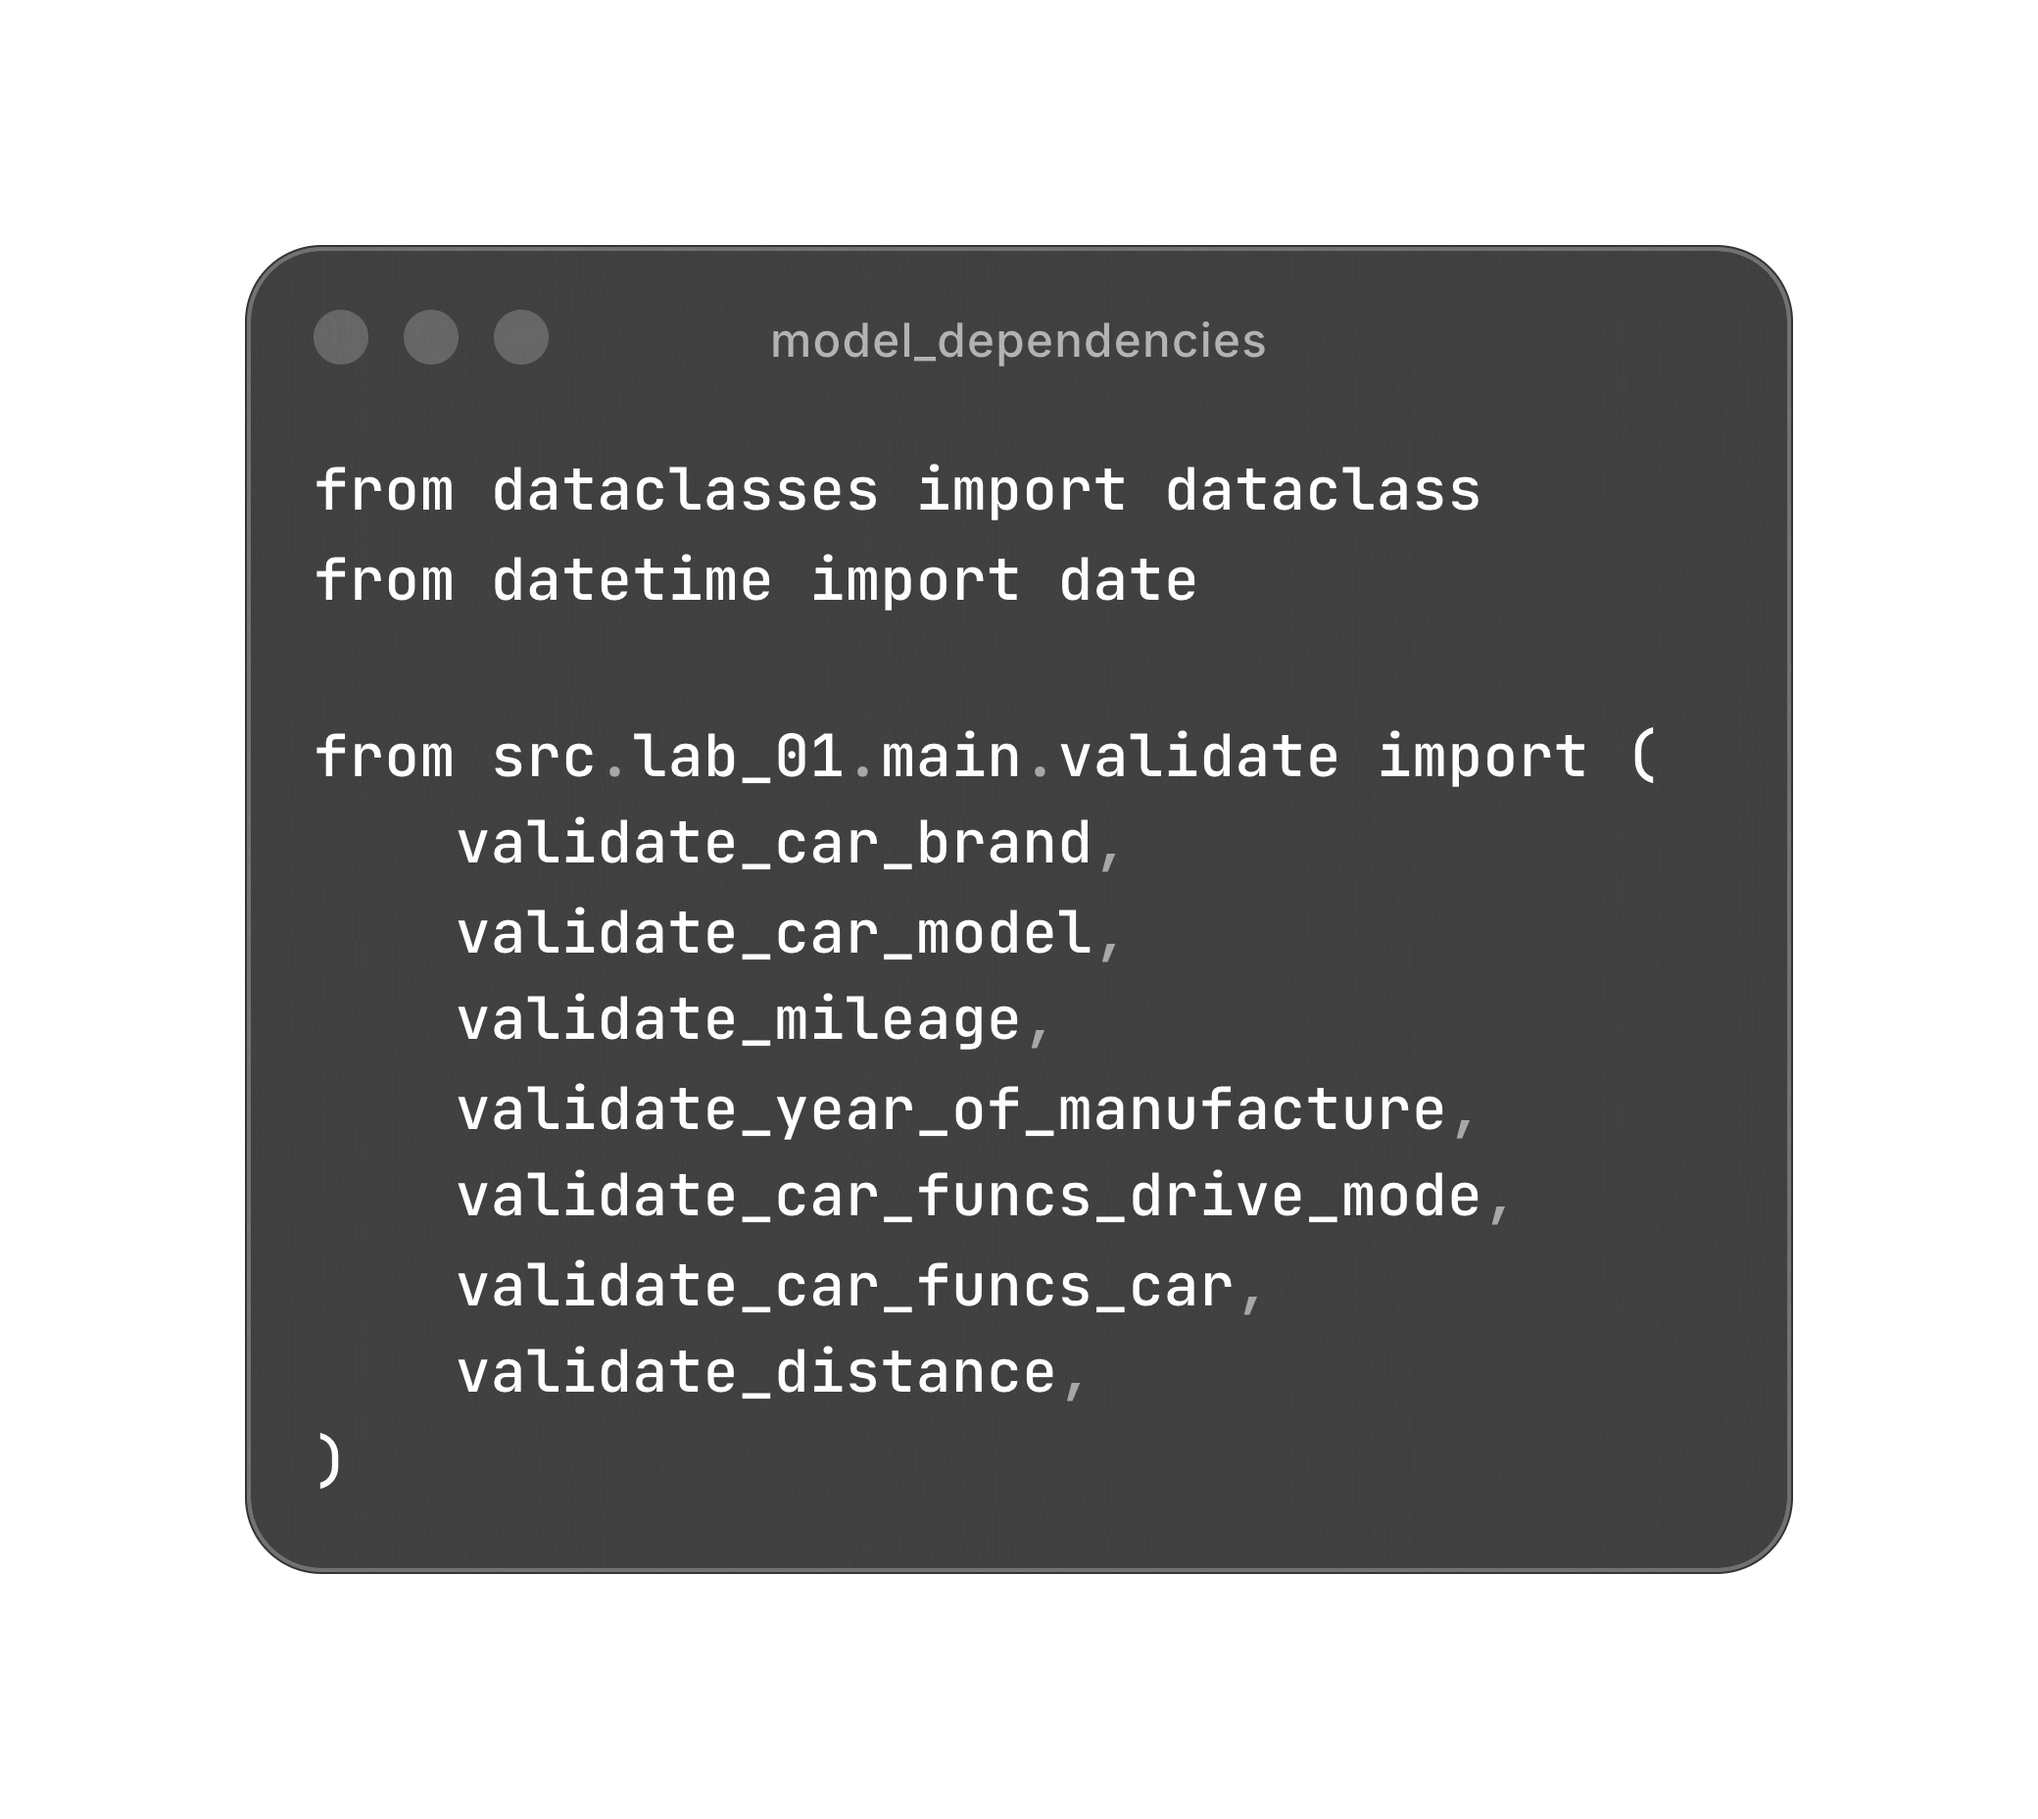
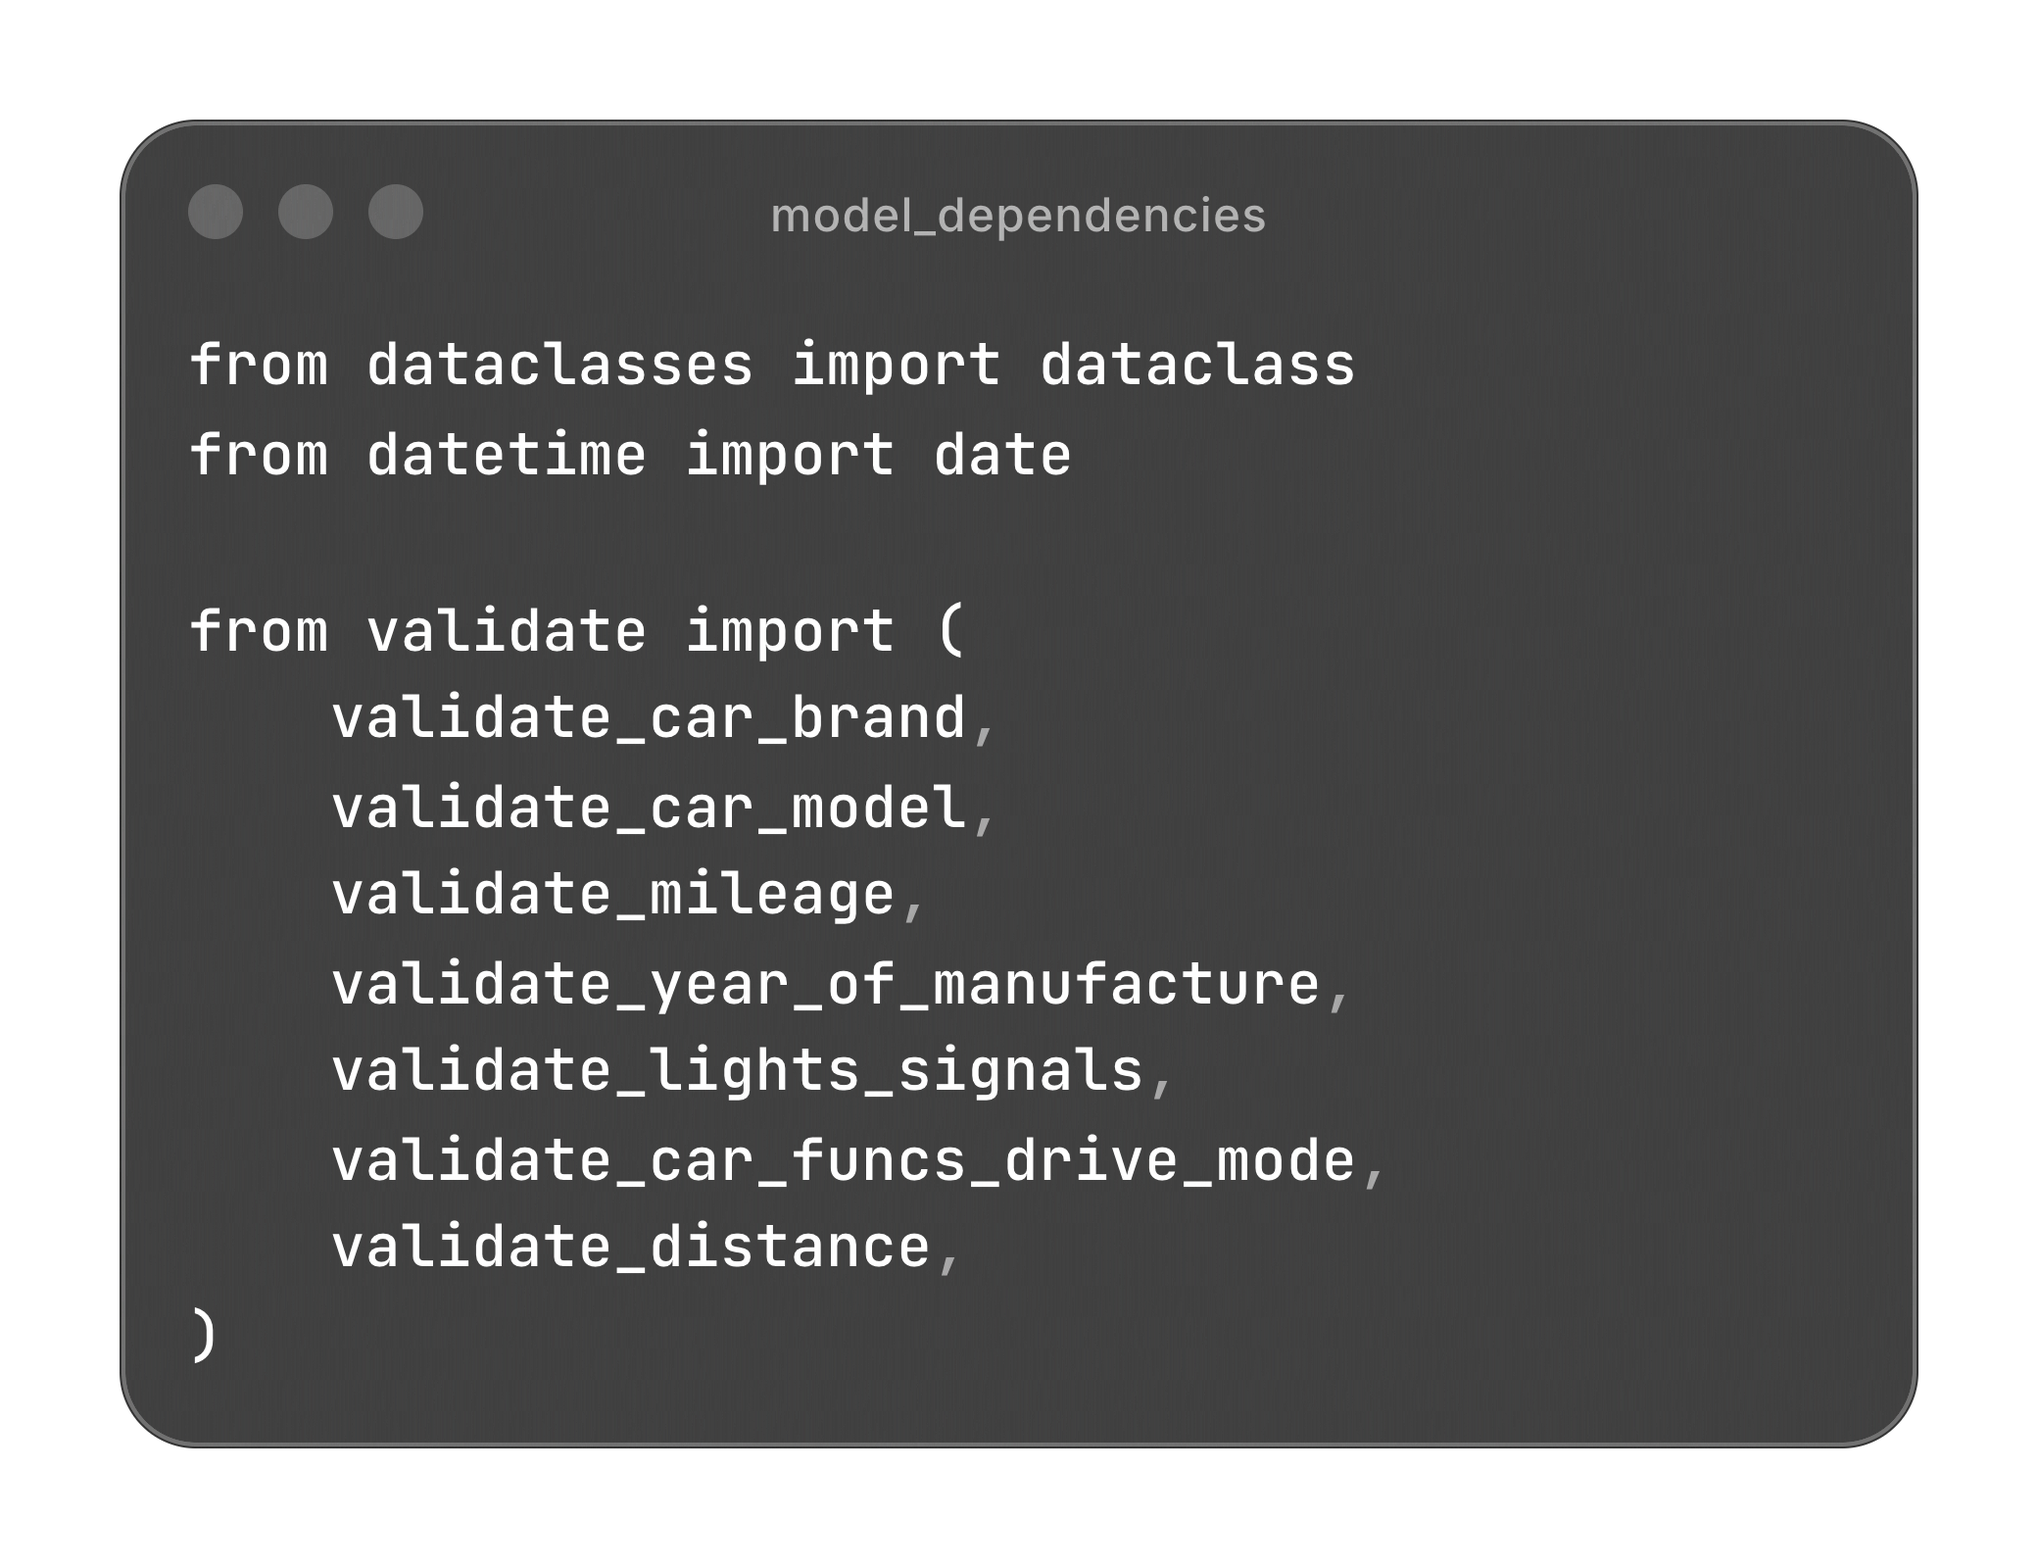
update + fix

Changed region(s): [[0.0312, 0.0625, 0.9688, 0.9375]]

diff --git a/src/lab_01/main/model.py b/src/lab_01/main/model.py
@@ -1,13 +1,12 @@
 from dataclasses import dataclass
 from datetime import date
 
-from src.lab_01.main.validate import (
+from validate import (
     validate_car_brand,
     validate_car_model,
     validate_mileage,
     validate_year_of_manufacture,
     validate_car_funcs_drive_mode,
-    validate_car_funcs_car,
     validate_distance,
 )
 
@@ -134,7 +133,7 @@ class CarFuncs:
     @car.setter
     def car(self, value: Car):
 
-        if not validate_car_funcs_car(value):
+        if not isinstance(value, Car):
             raise ValueError("Invalid car value.")
 
         self._car = value
@@ -233,3 +232,5 @@ class CarFuncs:
             return f"Car driven for {distance} km. Total mileage is now {self._car.mileage} km."
 
         return "Cannot drive. The engine is off."
+    
+print(Car('toyota', '', ))

diff --git a/src/lab_01/main/validate.py b/src/lab_01/main/validate.py
@@ -19,18 +19,13 @@ def validate_year_of_manufacture(variable: date) -> bool:
 
     return isinstance(variable, date) and variable <= date.today()
 
-
+def validate_lights_signals(variable_01: bool, variable_02: bool):
+    
+    return all(isinstance(element, bool) for element in [variable_01, variable_02])
+        
 def validate_car_funcs_drive_mode(drive_mod: str) -> bool:
 
     return isinstance(drive_mod, str) and len(drive_mod.split()) != 0
-
-
-def validate_car_funcs_car(object) -> bool:
-
-    from src.lab_01.main.model import Car
-
-    return isinstance(object, Car)
-
 
 def validate_distance(distance: int) -> bool:
 
